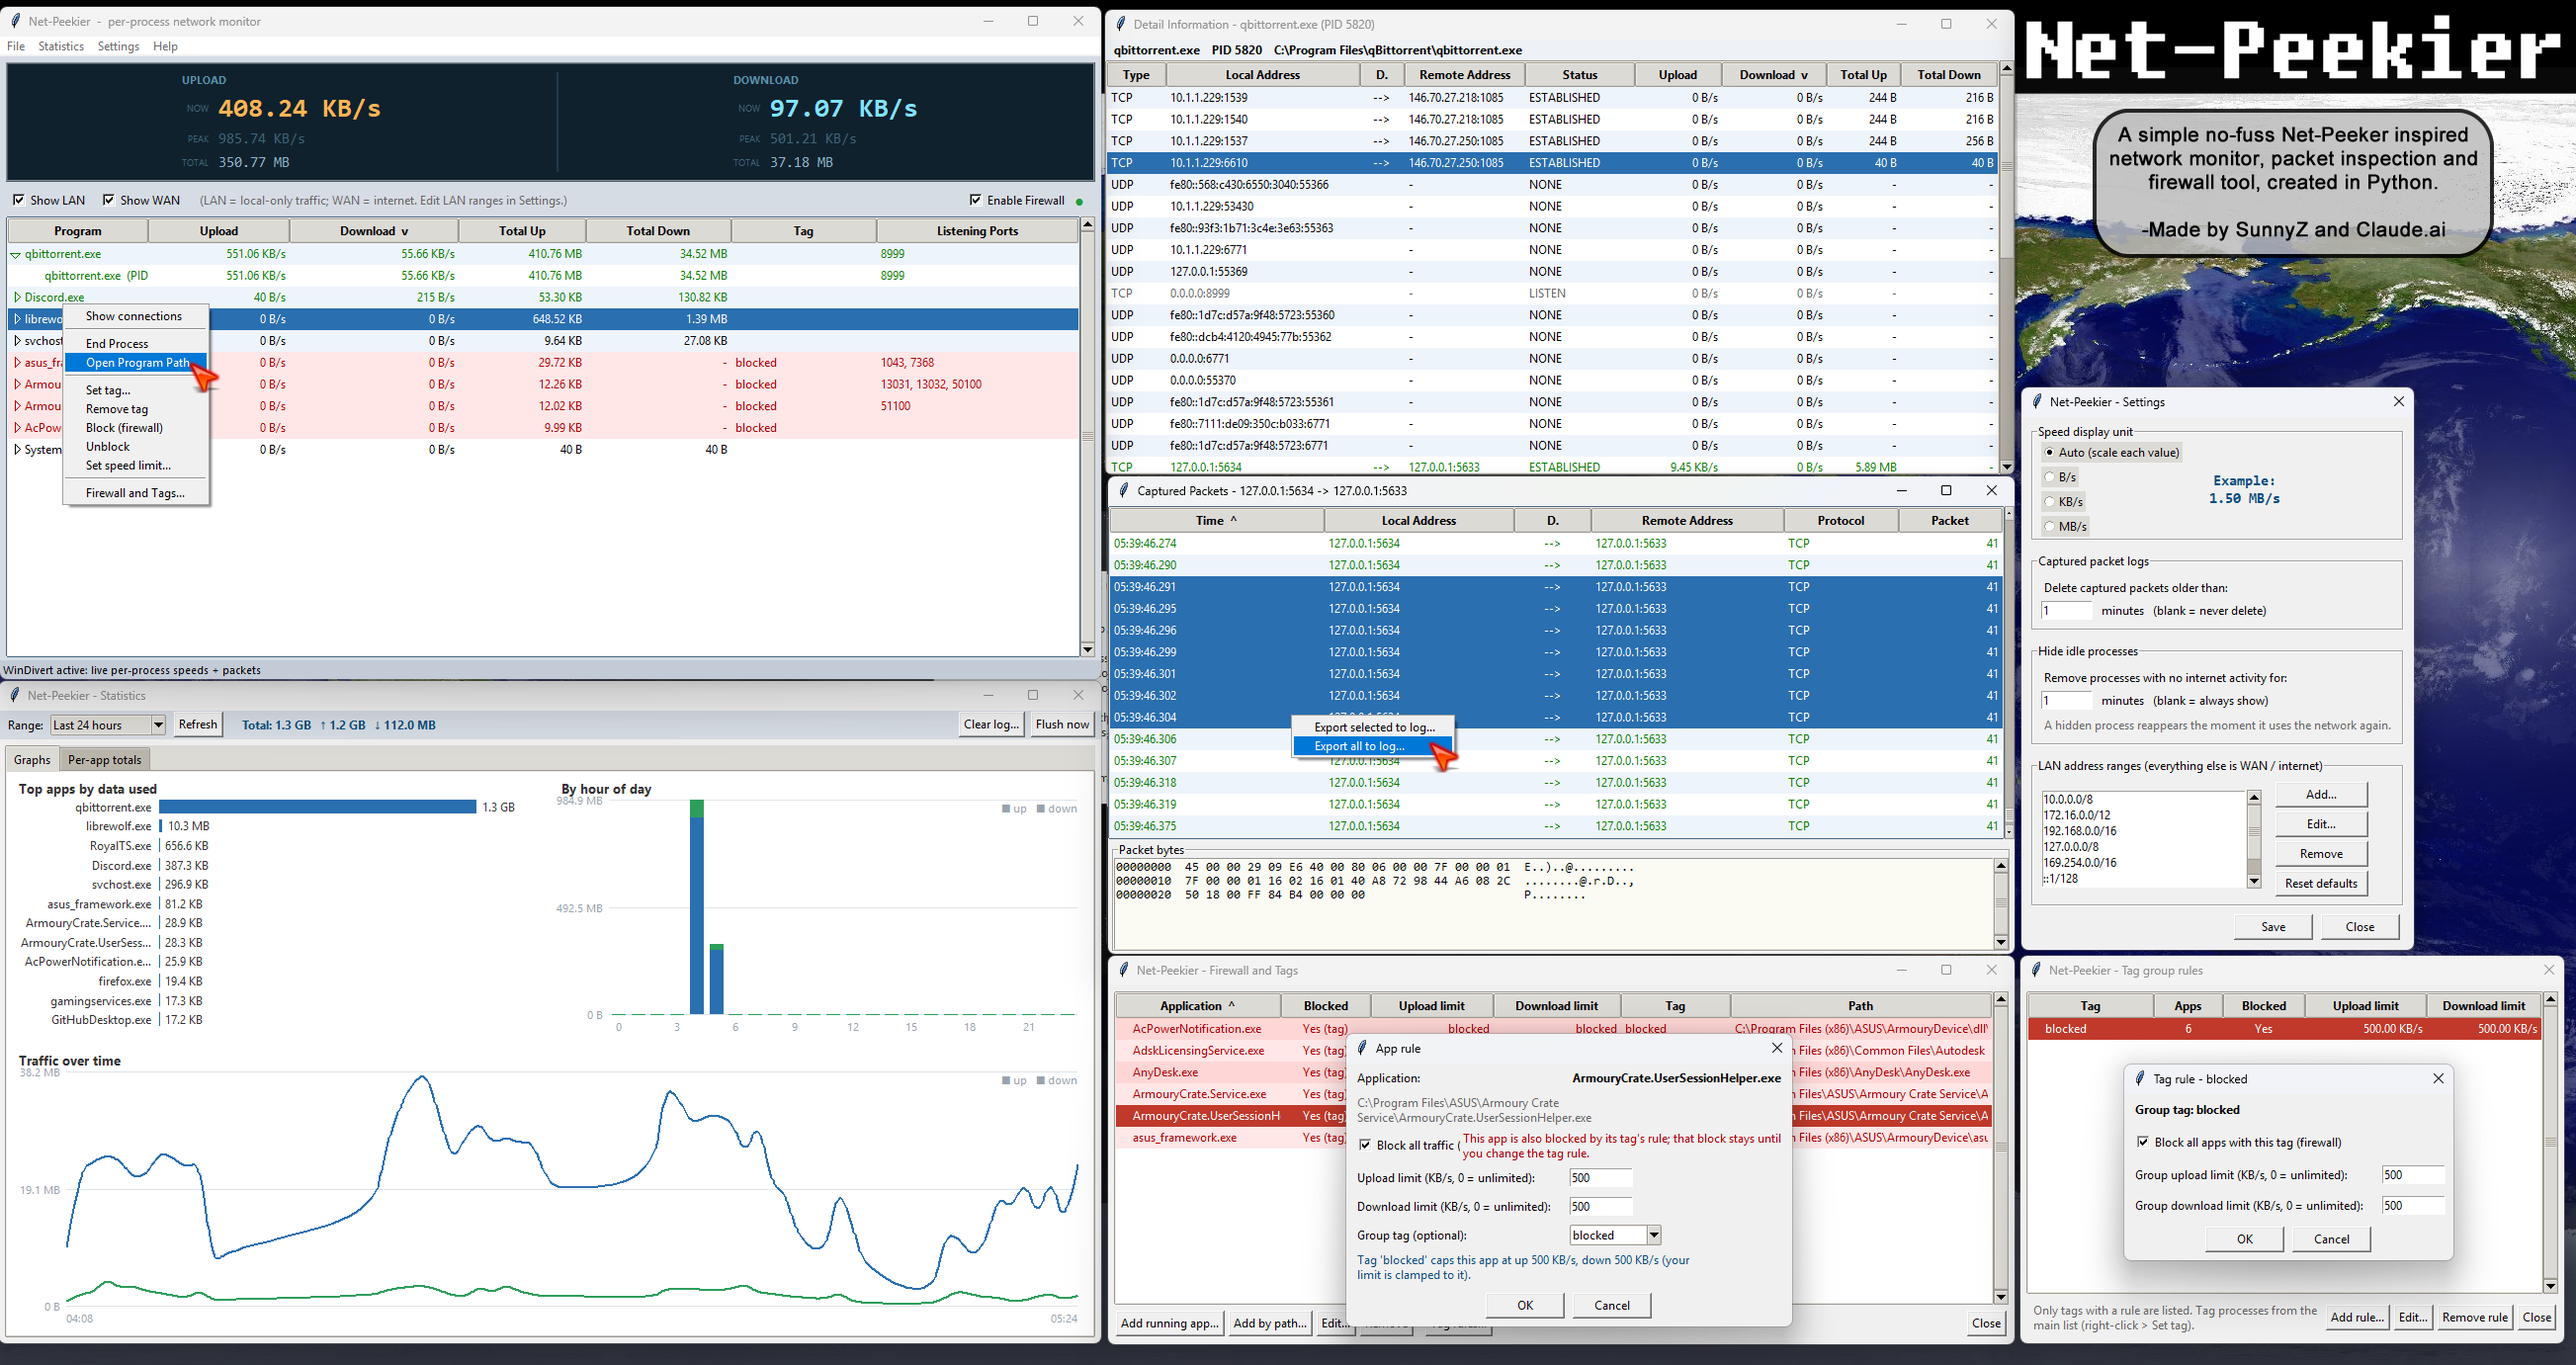
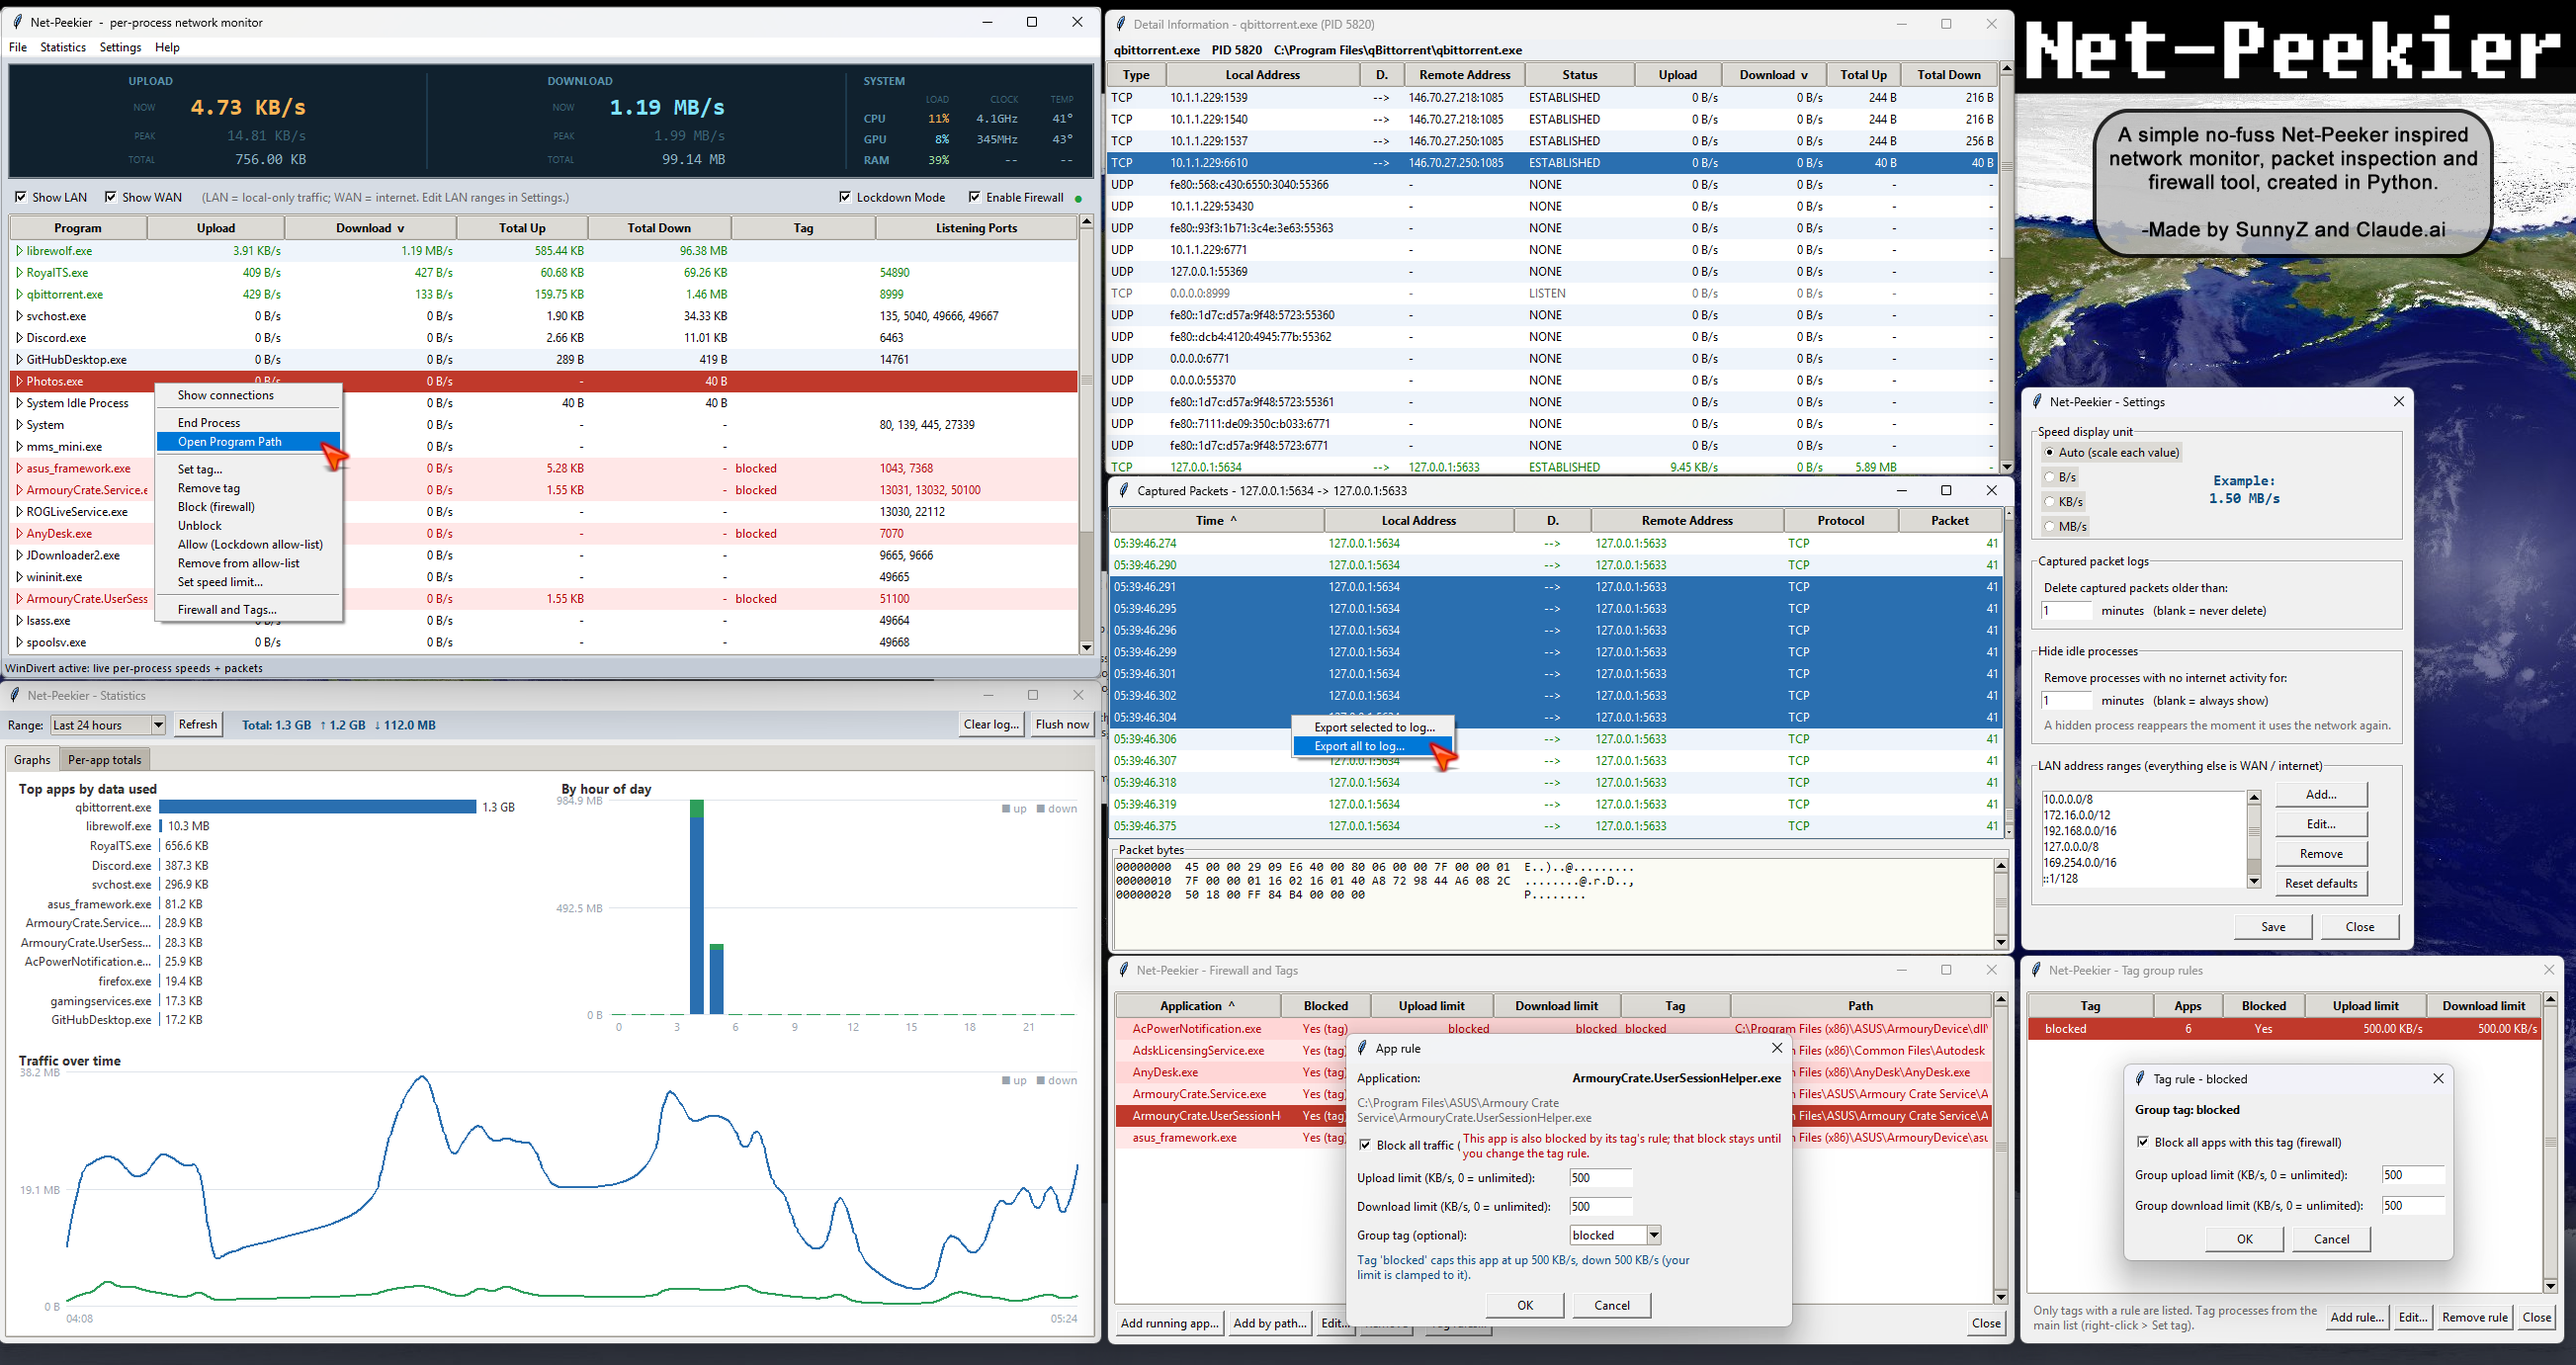
Net-Peekier v1.0.18
Net-Peekier v1.0.18

diff --git a/netpeekier/gui/winutil.py b/netpeekier/gui/winutil.py
@@ -28,43 +28,51 @@ def center_on_parent(win, parent) -> None:
 
 
 def centered_message(parent, kind: str, title: str, message: str) -> None:
-    """Show a messagebox reliably centred over `parent`.
+    """Show a simple message dialog reliably centred over `parent`.
 
-    Tkinter's native messageboxes only center on the parent when that window is
-    the transient/active owner, so a plain showinfo can land on the wrong
-    screen. We place a tiny transient holder exactly at the parent's center and
-    parent the dialog to that, which keeps the popup over the right window.
+    The native tk messagebox ignores hidden helper windows and falls back to
+    centring on the root window, so instead we build a tiny modal Toplevel and
+    position it ourselves over `parent` with center_on_parent.
     """
     import tkinter as tk
-    from tkinter import messagebox
-    holder = None
     try:
-        parent.update_idletasks()
-        px = parent.winfo_rootx()
-        py = parent.winfo_rooty()
-        pw = parent.winfo_width() or parent.winfo_reqwidth()
-        ph = parent.winfo_height() or parent.winfo_reqheight()
-        holder = tk.Toplevel(parent)
-        holder.withdraw()
-        holder.overrideredirect(True)
-        holder.transient(parent)
-        # a 1x1 window at the parent's center; the messagebox centers on it
-        holder.geometry(f"1x1+{px + pw // 2}+{py + ph // 2}")
-        holder.update_idletasks()
-        fn = {"info": messagebox.showinfo,
-              "warning": messagebox.showwarning,
-              "error": messagebox.showerror}.get(kind, messagebox.showinfo)
-        fn(title, message, parent=holder)
+        dlg = tk.Toplevel(parent)
+        dlg.title(title)
+        dlg.resizable(False, False)
+        dlg.transient(parent)
+        dlg.configure(bg="white")
+
+        icon = {"error": "\u2716", "warning": "\u26a0"}.get(kind, "\u2139")
+        icon_fg = {"error": "#c0392b", "warning": "#c08a00"}.get(kind, "#1565c0")
+
+        body = tk.Frame(dlg, bg="white")
+        body.pack(fill="both", expand=True, padx=18, pady=(16, 6))
+        tk.Label(body, text=icon, bg="white", fg=icon_fg,
+                 font=("Segoe UI", 20)).pack(side="left", padx=(0, 12),
+                                             anchor="n")
+        tk.Label(body, text=message, bg="white", justify="left",
+                 wraplength=340, font=("Segoe UI", 10)).pack(side="left",
+                                                             anchor="w")
+
+        btnbar = tk.Frame(dlg, bg="white")
+        btnbar.pack(fill="x", padx=12, pady=(0, 12))
+        ok = tk.Button(btnbar, text="OK", width=10, command=dlg.destroy)
+        ok.pack(side="right")
+
+        dlg.bind("<Return>", lambda _e: dlg.destroy())
+        dlg.bind("<Escape>", lambda _e: dlg.destroy())
+
+        center_on_parent(dlg, parent)
+        ok.focus_set()
+        try:
+            dlg.grab_set()
+        except Exception:
+            pass
+        parent.wait_window(dlg)
     except Exception:
-        # fall back to a normal parent-anchored dialog
+        # last-ditch fallback so the user still sees something
         try:
             from tkinter import messagebox as _mb
             _mb.showinfo(title, message, parent=parent)
         except Exception:
             pass
-    finally:
-        if holder is not None:
-            try:
-                holder.destroy()
-            except Exception:
-                pass

diff --git a/netpeekier/__init__.py b/netpeekier/__init__.py
@@ -6,7 +6,7 @@ import re
 # of README.md ("##### vX.Y.Z"); get_version() reads it so the About box always
 # matches what you publish. Keep this constant roughly in sync as a backup for
 # when README.md isn't shipped alongside the code.
-__version__ = "1.0.17"
+__version__ = "1.0.18"
 
 
 def get_version() -> str:

diff --git a/README.md b/README.md
@@ -1,5 +1,5 @@
 # Net-Peekier
-##### v1.0.17
+##### v1.0.18
 
 A small, dependency-light per-process network monitor inspired by the old
 **NetPeeker** — built in Python with a Tkinter GUI. It shows live upload/
